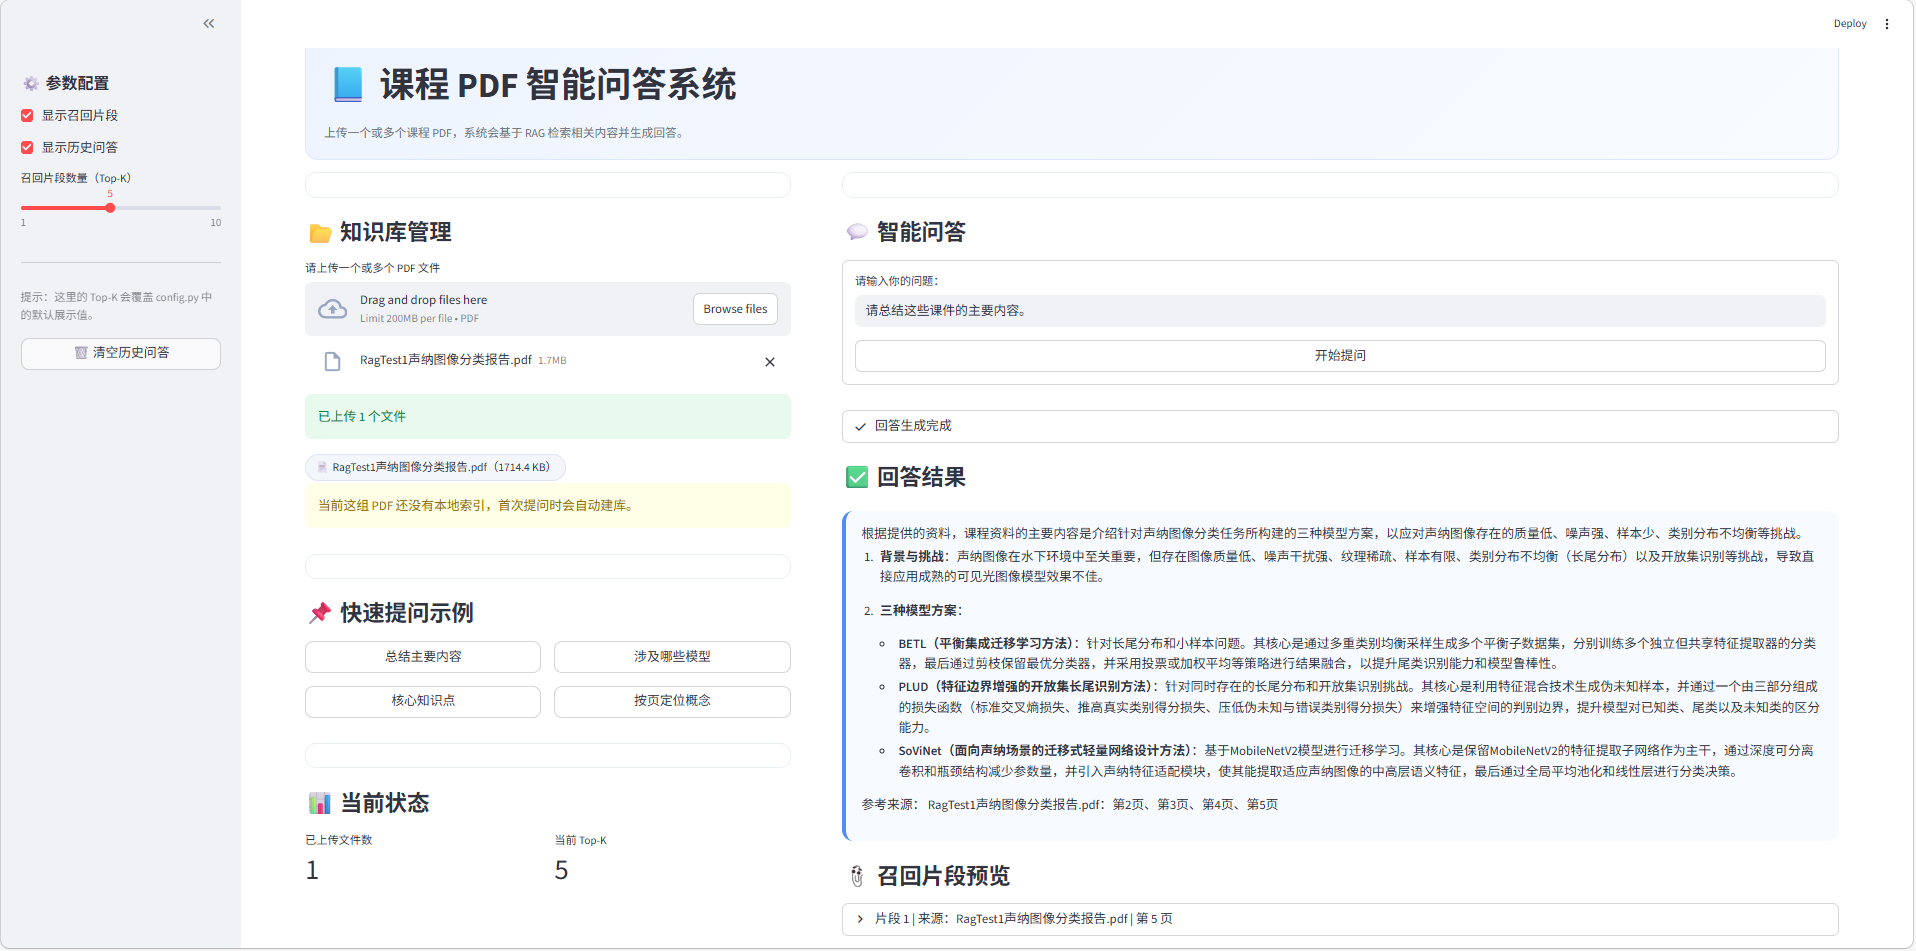
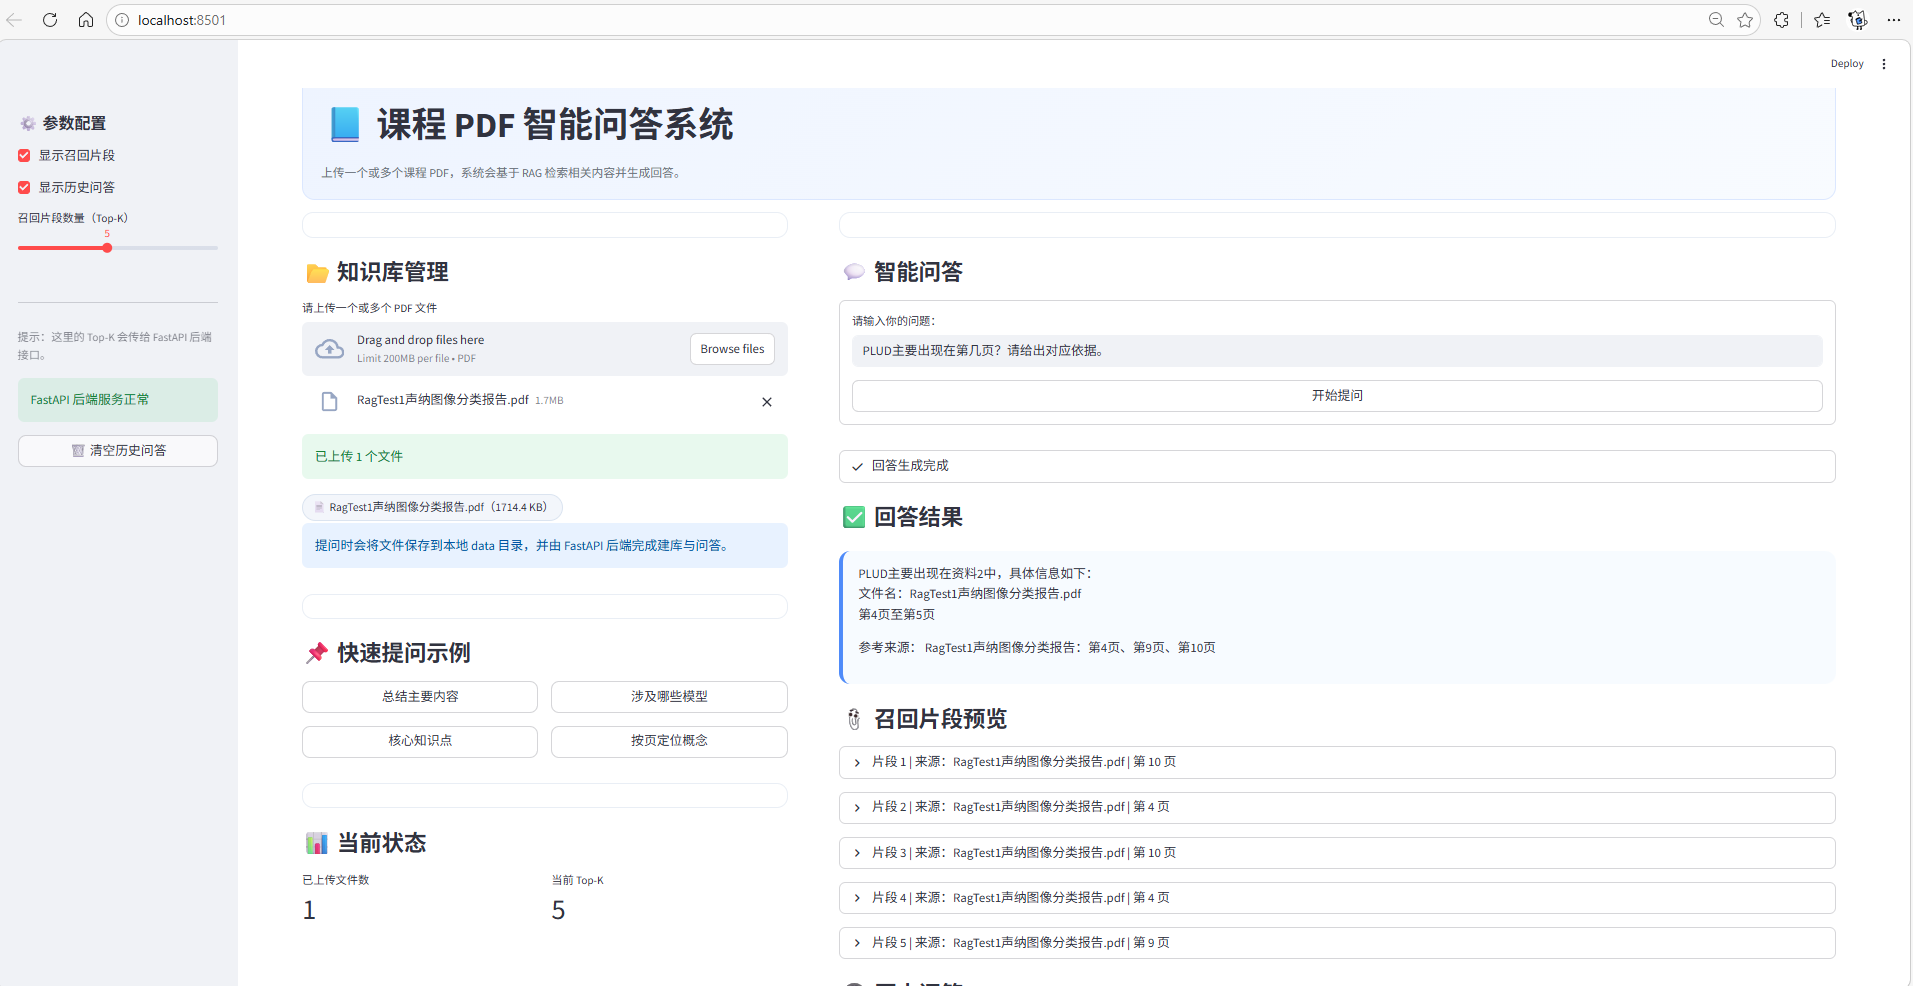
docs: 更新readme

diff --git a/README.md b/README.md
@@ -1,3 +1,4 @@
+
 # 基于 RAG 的课程 PDF 智能问答与复习辅助系统
 
 ## 一、项目简介
@@ -6,14 +7,15 @@
 
 系统允许用户上传课程 PDF（课件、讲义、实验报告等），并通过自然语言提问，系统会自动检索相关内容并生成答案，同时给出 **引用来源（文件名 + 页码）**，帮助用户快速定位知识点。
 
-该项目主要用于探索 **大语言模型 + 信息检索技术** 在学习辅助场景中的应用。   
+该项目主要用于探索 **大语言模型 + 信息检索技术** 在学习辅助场景中的应用。  
 系统整体采用：
 
-  ```
-  Streamlit + FastAPI + RAG Pipeline
-  ```
+```
+Streamlit + FastAPI + RAG Pipeline
+```
 
-  架构实现 **前端界面 + 后端服务 + AI检索生成** 的完整流程。
+架构实现 **前端界面 + 后端服务 + AI检索生成** 的完整流程。
+
 ![系统示例图.png](doc/%E7%B3%BB%E7%BB%9F%E7%A4%BA%E4%BE%8B%E5%9B%BE.png)
 
 ------
@@ -50,29 +52,29 @@
 整体系统架构如下：
 
 ```
-  User
-   ↓
-  Streamlit UI
-   ↓
-  FastAPI
-   ↓
-  RAG Pipeline
-   ↓
-  PDF Loader
-   ↓
-  Text Splitter
-   ↓
-  Embedding
-   ↓
-  Vector Store (FAISS)
-   ↓
-  Hybrid Retrieval
-   ↓
-  Reranker
-   ↓
-  LLM
-   ↓
-  Answer + Reference
+User
+ ↓
+Streamlit UI
+ ↓
+FastAPI
+ ↓
+RAG Pipeline
+ ↓
+PDF Loader
+ ↓
+Text Splitter
+ ↓
+Embedding
+ ↓
+Vector Store (FAISS)
+ ↓
+Hybrid Retrieval
+ ↓
+Reranker
+ ↓
+LLM
+ ↓
+Answer + Reference
 ```
 
 ------
@@ -90,6 +92,7 @@ BM25
 BGE Reranker
 HuggingFace Embedding
 OpenAI Compatible API
+Ollama (Local LLM)
 PyMuPDF
 ```
 
@@ -130,6 +133,8 @@ course_rag_system
 └─ README.md
 ```
 
+------
+
 # 快速启动
 
 ## 1 环境准备
@@ -150,13 +155,47 @@ pip install -r requirements.txt
 ------
 
 ## 2 配置文件
-在项目根目录创建 `data`和`storage`目录：  
+
+在项目根目录创建 `data` 和 `storage` 目录。  
+
 在项目根目录创建 `.env` 文件并按照如下示例填写：
 
 ```
 ZHI_API_KEY=你的APIKEY
 ZHI_BASE_URL=你的API接口地址
 ```
+
+------
+
+## 2.1 本地模型（可选）
+
+系统支持使用 **Ollama 本地大模型** 进行推理。
+
+安装 Ollama：
+
+https://ollama.com
+
+下载模型：
+
+```
+ollama pull deepseek-r1:7b
+```
+
+启动 Ollama 服务：
+
+```
+ollama serve
+```
+
+然后在 `config.py` 中修改：
+
+```
+LLM_BACKEND = "ollama"
+OLLAMA_MODEL = "deepseek-r1:7b"
+```
+
+即可使用本地模型进行问答。
+
 ------
 
 ## 3 启动系统
@@ -168,11 +207,12 @@ cd E:\pycharm_workspace\course_rag_system
 ```
 
 启动 FastAPI
+
 ```
 uvicorn api.main:app --reload
 ```
 
-打开**另一个终端**启动 Streamlit：
+打开 **另一个终端** 启动 Streamlit：
 
 ```
 streamlit run app.py
@@ -198,13 +238,13 @@ http://localhost:8501
 
 实现最基础的 RAG pipeline：
 
--  [x] PDF Loader
--  [x] Text Splitter
--  [x] Embedding 模块
--  [x] Vector Store（FAISS）
--  [x] Retriever
--  [x] RAG Pipeline
--  [x] Streamlit UI
+- [x] PDF Loader
+- [x] Text Splitter
+- [x] Embedding 模块
+- [x] Vector Store（FAISS）
+- [x] Retriever
+- [x] RAG Pipeline
+- [x] Streamlit UI
 
 系统可以：
 
@@ -221,9 +261,9 @@ http://localhost:8501
 
 新增：
 
--  [x] Vector Store 数据持久化
--  [x] Hybrid Retrieval（BM25 + Vector）
--  [x] Reranker 重排序
+- [x] Vector Store 数据持久化
+- [x] Hybrid Retrieval（BM25 + Vector）
+- [x] Reranker 重排序
 
 改进：
 
@@ -236,10 +276,10 @@ http://localhost:8501
 
 对系统结构进行优化：
 
--  [x] 优化 Text Splitter
--  [x] 引入统一 `config` 管理参数
--  [x] BM25 中文分词优化
--  [x] 检索参数可配置化
+- [x] 优化 Text Splitter
+- [x] 引入统一 `config` 管理参数
+- [x] BM25 中文分词优化
+- [x] 检索参数可配置化
 
 ------
 
@@ -247,10 +287,10 @@ http://localhost:8501
 
 支持多 PDF 共同组成知识库：
 
--  [x] 多 PDF 上传
--  [x] 联合向量索引
--  [x] 跨文档检索
--  [x] 引用来源展示（文件名 + 页码）
+- [x] 多 PDF 上传
+- [x] 联合向量索引
+- [x] 跨文档检索
+- [x] 引用来源展示（文件名 + 页码）
 
 系统从：
 
@@ -270,13 +310,13 @@ http://localhost:8501
 
 新增系统工程化能力：
 
--  [x] 引入 FastAPI 构建问答服务接口
--  [x] 新增 `/chat` RAG 问答 API
--  [x] 新增 `/health` 服务健康检查接口
--  [x] Streamlit 前端通过 HTTP 调用 FastAPI
--  [x] 支持 HuggingFace 本地 embedding 模型
--  [x] 自动检测 CUDA 并使用 GPU 推理
--  [x] 修复 embedding 模型切换导致的索引冲突问题
+- [x] 引入 FastAPI 构建问答服务接口
+- [x] 新增 `/chat` RAG 问答 API
+- [x] 新增 `/health` 服务健康检查接口
+- [x] Streamlit 前端通过 HTTP 调用 FastAPI
+- [x] 支持 HuggingFace 本地 embedding 模型
+- [x] 自动检测 CUDA 并使用 GPU 推理
+- [x] 修复 embedding 模型切换导致的索引冲突问题
 
 系统架构从：
 
@@ -294,7 +334,31 @@ FastAPI
 RAG Pipeline
 ```
 
-  提升系统工程化程度。
+提升系统工程化程度。
+
+------
+
+# v2.1.0 本地模型支持
+
+新增本地 LLM 推理能力：
+
+- [x] 支持 Ollama 本地模型推理
+- [x] 新增 `LLM_BACKEND` 配置
+- [x] 支持 API 模型与本地模型自由切换
+- [x] 本地模型使用 `deepseek-r1:7b`
+- [x] 优化本地推理稳定性（使用 `/api/generate` 接口）
+
+系统 LLM 调用链升级为：
+
+```
+LLM Backend
+ ├─ API (deepseek-chat)
+ └─ Ollama (deepseek-r1)
+```
+
+实现 **在线模型与本地模型统一适配**。
+
+------
 
 # 模块说明
 
@@ -350,6 +414,7 @@ HuggingFace 本地模型：
 ```
 sentence-transformers/all-MiniLM-L6-v2
 ```
+
 系统会根据配置自动选择 embedding backend，并支持 GPU 加速。
 
 ------
@@ -422,6 +487,22 @@ LLM
 Answer
 ```
 
+LLM 调用支持多 backend：
+
+API 模型：
+
+```
+deepseek-chat
+POST /v1/chat/completions
+```
+
+本地模型：
+
+```
+deepseek-r1:7b
+POST /api/generate
+```
+
 同时生成：
 
 ```
@@ -450,12 +531,12 @@ Answer
 
 未来可以继续优化：
 
--  语义级文本切分
--  Query Rewrite
--  Answer Evaluation
--  本地 embedding 模型
--  向量数据库（Milvus / Qdrant）
--  支持更多文档格式（docx、ppt）
+- 语义级文本切分
+- Query Rewrite
+- Answer Evaluation
+- 更强的本地 LLM（Qwen / Llama / DeepSeek）
+- 向量数据库（Milvus / Qdrant）
+- 支持更多文档格式（docx、ppt）
 
 ------
 
@@ -469,6 +550,8 @@ Answer
 - 多文档知识库
 - 问答生成
 - 引用溯源
+
+并支持 **在线大模型 API 与本地大模型（Ollama）两种推理模式**。
 
 适用于：
 
